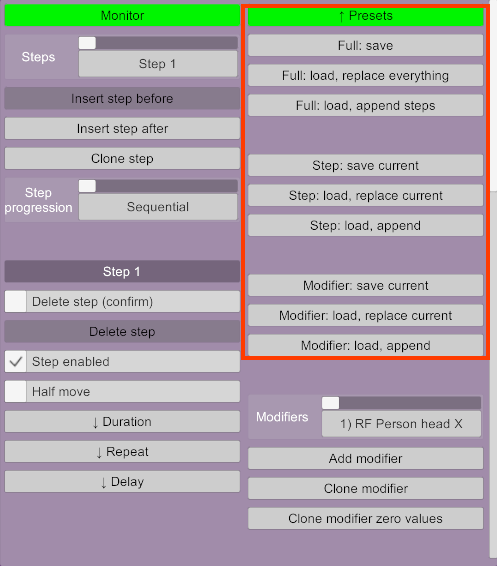
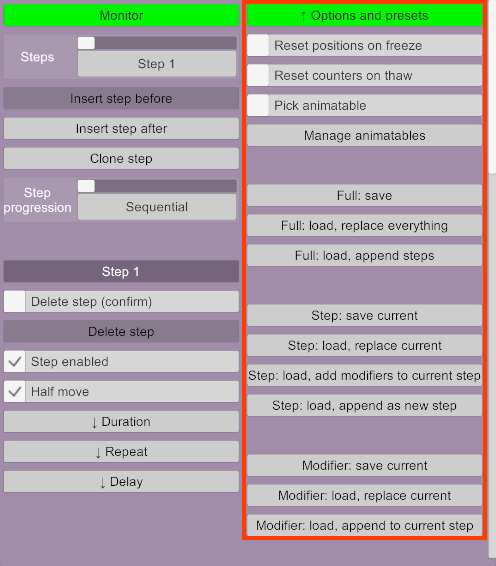
updated readme for new options, presets and animatables

diff --git a/README.md b/README.md
@@ -24,7 +24,7 @@ At its core, Synergy has the notion of _steps_ and _modifiers_. Each step can co
   * [Morph](#morph)
   * [Light](#light)
   * [Audio](#audio)
-- [Presets](#presets)
+- [Options and presets](#options-and-presets)
 - [Monitor](#monitor)
 - [Duration](#duration)
   * [Random range](#random-range)
@@ -329,22 +329,60 @@ An audio modifier can play audio clips on an audio object or on the head audio o
 - _Add file..._: Adds a new audio file to the scene. This is equivalent to adding a clip in the _Scene Audio_ tab.
 
 
-## Presets
-Expanding the _Presets_ section in the top-right gives option to save or load presets.
+## Options and presets
+Expanding the _Options and presets_ section in the top-right allows for changing options and save or load presets.
 
 [<img src="doc/presets.png" height="400">](doc/presets.png)
 
-There are three groups of buttons:
-- _Full_: A full preset contains all the steps and their modifiers.
-- _Step_: A preset for a single step.
-- _Modifier_: A preset for a single modifier.
+The first two options specify how the _Freeze Motion/Sound_ checkbox interacts with Synergy:
 
-Each group has three buttons:
-- _Save_: Saves the preset.
-- _Replace_: Replace everything, the current step, or the current modifier.
-- _Append_: Appends all the step, one step, or one modifier.
+- _Reset positions on freeze_: Whether all modifiers are temporarily reset to their default values when freezing. This will snap back the model to its default position when freezing and snap back to the last position when unfreezing.
+- _Reset counters on thaw_: Whether all modifiers are reset to their default values when unfreezing.
 
-Presets are saved in `Saves/Synergy` by default. Full presets have the extension `.syn`, step presets `.synstep` and modifier presets `.synmodifier`.
+The next two buttons are for configuring animatable properties so other plugins can interact when them. See [_Animatable properties_](#animatable-properties):
+
+- _Pick animatable_: Adds a checkbox to all the properties that can be animated.
+- _Manage animatables_: Shows all the properties that are currently marked as animatable and allow for renaming and deleting them.
+
+The remaining buttons are for managing presets. Presets are saved in `Saves/Synergy` by default.
+
+Full presets (`.syn` files):
+- _Full: save_: Saves a preset contains all the steps and their modifiers.
+- _Full: load, replace everything_: Loads a full preset and replaces everything in the current instance.
+- _Full: load, append steps_: Loads a full preset and appends all of its steps to the current instance.
+
+Step presets (`.synstep` files):
+- _Step: save current_: Saves the current step.
+- _Step: load, replace current_: Replaces the current step by the preset.
+- _Step: load, add modifiers to current step_: Extracts all the modifiers from the step preset and appends them to the current step.
+- _Step: load, append as new step_: Loads the step preset as a new step.
+
+Modifier presets (`.synmodifier` files):
+- _Modifier: save current_: Saves the current modifier.
+- _Modifier: load, replace current_: Replaces the current modifier by the preset.
+- _Modifier: load, append to current step_: Loads the modifier preset as a new modifier in the current step.
+
+
+## Animatable properties
+Because a Synergy instance can potentially have hundreds of parameters, they are not exported by default. To make a parameter available to other scripts, it must be marked as _animatable_, much like a morph. Selecting the _Pick animatable_ checkbox in the [options](#options-and-presets) will add a checkbox named _Animatable_ next to all the parameters that support it.
+
+[<img src="doc/animatable.png" height="400">](doc/animatable.png)
+
+Once a parameter has been marked as animatable, it will be registered globally, allowing other plugins to change it. The _Manage animatable_ button in the options will show a new screen with all the animatable parameters.
+
+[<img src="doc/manage-animatables.png" height="400">](doc/manage-animatables.png)
+
+Parameter names can be customised. Clicking _Remove_ is equivalent to unchecking the _Animtable_ checkbox on the parameter. The button will change into _Add_
+
+
+Note that once a parameter is used by another plugin, its name cannot be changed without breaking the link between that plugin and Synergy. Therefore, it is recommended to rename parameters manually immediately after making them animatable, before using them in other plugins. Although Synergy will give default names to parameters, they're not always very useful.
+
+As an example, this is the [Timeline plugin by AcidBubbles](https://github.com/acidbubbles/vam-timeline) recognising Synergy parameters:
+
+[<img src="doc/timeline.png" height="400">](doc/timeline.png)
+
+### On/off (bool) parameters
+Some plugins can only manage numeric parameters ("floats"). Since Synergy also has on/off or enabled/disabled parameters ("bools"), those are exported twice, as a bool _and_ a float. For a parameter name `example`, there will be a bool parameter `example` and a float parameter `example.f`. They both control the same value. The float parameter will be equivalent to `false` when below 0.5 and `true` from 0.5 to 1.0.
 
 
 ## Monitor
